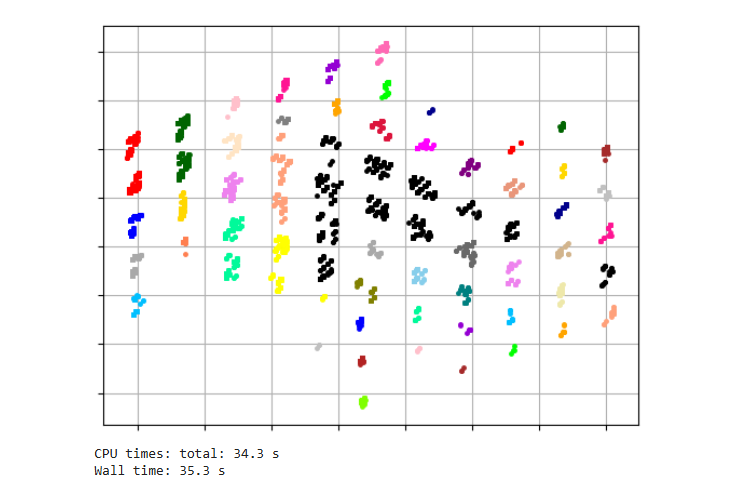
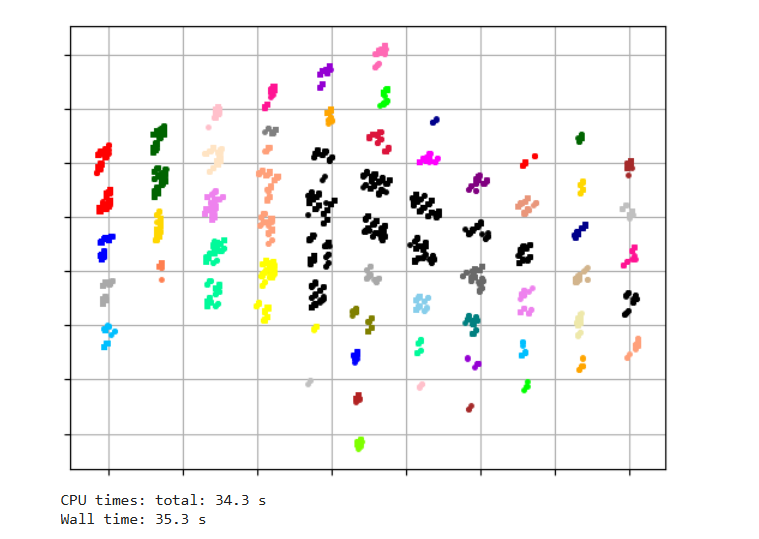
minor

Changed region(s): [[0.0903, 0.0305, 0.9029, 0.8859], [0.0602, 0.9165, 0.3611, 0.9776], [0.8126, 0.4582, 0.8427, 0.4888]]

diff --git a/index.html b/index.html
@@ -363,7 +363,7 @@
 
             <li class="timeline-item">
 
-              <h4 class="h4 timeline-item-title">University of Economics Ho Chi Minh City</h4>
+              <h4 class="h4 timeline-item-title">Bachelor of Data Science - UEH</h4>
 
               <span>Sep 2022 — Present</span>
 
@@ -398,7 +398,7 @@
             </li>
             <li class="timeline-item">
               <h4 class="h4 timeline-item-title">UIT Data Science Challenge 2024</h4>
-              <span>Completed: 2024</span>
+              <span>Completed: Nov 2024</span>
               <p class="timeline-text">
                 Participated in the UIT Data Science Challenge 2024, where I applied processing techniques to real-world datasets and developed Deep Learning models to solve the sarcasm problem.
               </p>